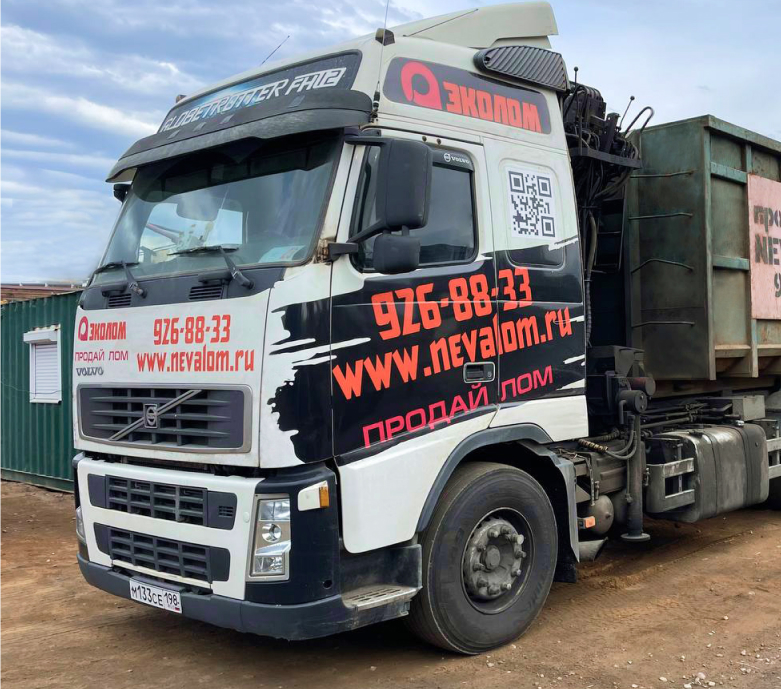
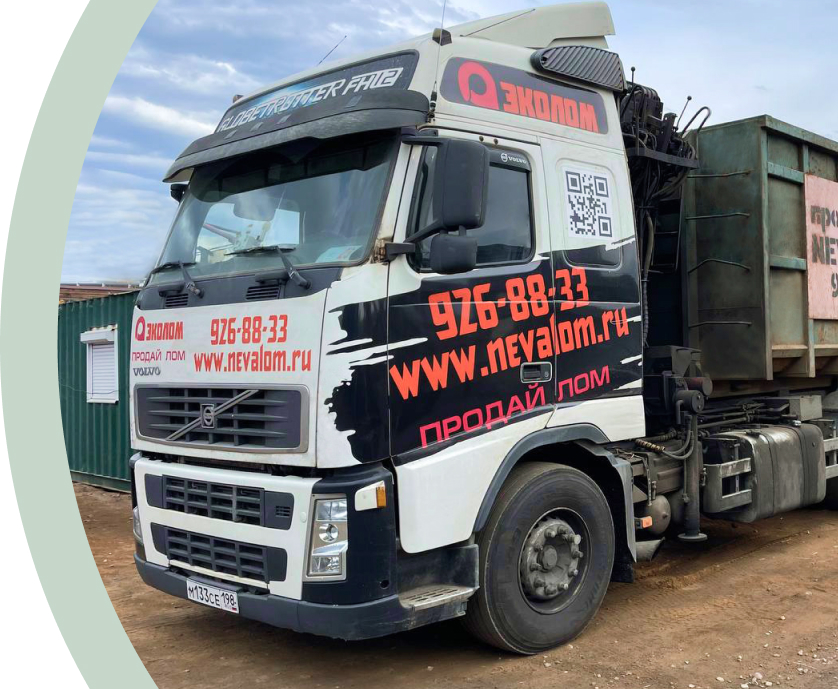
feat: add main__initial

diff --git a/index.html b/index.html
@@ -8,7 +8,7 @@
     <link rel="stylesheet" href="./styles/main.css">
 </head>
 <body>
-    <header class="header">
+    <header>
         <div class="container">
             <div class="header__top">
                 <div class="top__logo">
@@ -35,7 +35,7 @@
                     <a class="number__tel" href="tel:+78129268833">+7 (812) 926-88-33</a>
                     <a class="number__mail" href="mailto:info@eco-lom.ru">info@eco-lom.ru</a>
                 </div>
-                <button class="top__collme-btn">Перезвоните мне</button>
+                <button class="top__collme-btn btn">Перезвоните мне</button>
             </div>
         </div>
         <hr class="divider">
@@ -64,12 +64,71 @@
                 </li>
             </ul>
         </div>
+        <hr class="divider">
     </header>
-        <a>
-            Приём лома чёрных 
-и цветных металлов 
-в Санкт-Петербурге
-        </a>
+
+    <main>
+        <section class="main__initial">
+            <div class="container">
+                <div class="initial">
+                    <div class="initial__basic">
+                        <h1 class="title">Приём лома чёрных и цветных металлов <span class="title-span">в Санкт-Петербурге</span></h1>
+                        <ul class="basic__btns">
+                            <li class="btn">
+                                <a href="javascript:void(0);">Цены на сегодня</a></li>
+                            <li class="btn">
+                                <a href="javascript:void(0);">Как сдать металл</a></li>
+                            <li class="btn">
+                                <a href="javascript:void(0);">Отзывы</a></li>
+                            <li class="btn">
+                                <a href="javascript:void(0);">Акции</a></li>
+                        </ul>
+                        <div class="wrap__btn-filled">
+                            <button class="btn-filled btn">Оставить заявку</button>
+                        </div>
+                    </div>
+                    <button class="initial__video" aria-label="Открыть видео"></button>
+                    <div class="initial__picture">
+                        <div class="picture__wrapper">
+                            <img src="./assets/img/picture.png" alt="Truck" class="picture-ecolom">
+                        </div>
+                    </div>
+                </div>
+            </div>
+        </section>
+
+        <p>Lorem ipsum dolor sit amet, consectetur adipisicing elit. Nesciunt dolor, aspernatur unde autem error, quae eveniet nam velit ipsam magni aut nobis quis laborum corrupti nihil veritatis. Nisi, deleniti repellendus?
+        Optio, omnis incidunt suscipit voluptatem nostrum officiis quas? Autem, incidunt eum. Facilis temporibus iusto nobis id quod quas, modi saepe quisquam minus tempore dolore veritatis libero culpa esse? Autem, minus.
+        Maxime, amet deserunt. Tenetur odit quo ipsa molestias laboriosam minima, necessitatibus pariatur, dignissimos itaque rerum incidunt nobis totam dolor est amet aliquid vero eligendi inventore molestiae soluta officia. Consequatur, modi.
+        Expedita aspernatur dolorum commodi excepturi! Exercitationem beatae asperiores hic minus? Saepe quisquam vitae sequi inventore sunt aut quibusdam exercitationem consectetur reprehenderit. Eos alias voluptate dolore vero nemo esse cupiditate iste.
+        Voluptatibus cumque iusto dolore, hic sint nihil aut. Magni deserunt omnis aperiam dicta hic earum, tempore pariatur, illum aliquam sapiente officiis dolores quasi nihil ratione quae cumque. Inventore, suscipit. Necessitatibus?
+        Provident deleniti ut laudantium praesentium cupiditate quia tempora, nihil atque optio, repellendus labore a ea et, nisi placeat iste officiis? Porro aliquid illo exercitationem quasi culpa? Culpa reiciendis voluptates modi.
+        Quod quidem provident rerum error quaerat earum, in natus similique praesentium, vero expedita magnam minus possimus saepe alias doloremque ipsa consequatur sit non soluta aliquam delectus pariatur tempore beatae! Magnam.
+        Rerum quis, explicabo accusantium autem, incidunt, hic quaerat sapiente cumque sit iure dolorum fuga reprehenderit. Provident, molestias veniam! Ea laborum ad, quia natus quisquam architecto? Assumenda, mollitia. Quaerat, cupiditate excepturi.
+        Dolor corporis itaque, autem doloremque nihil voluptatibus numquam ut eum animi fugiat aspernatur nam fugit fuga voluptatum, id expedita quibusdam. Excepturi, sed voluptate. Cum, voluptas commodi ad aliquid dignissimos dolore.
+        Repudiandae voluptates architecto voluptas, rem blanditiis voluptatem itaque quae perspiciatis dolor sed quibusdam pariatur fuga nobis dicta eum vero, aliquam labore deleniti consequatur ducimus est minus debitis nihil necessitatibus. Quasi?
+        Tenetur quasi, veritatis amet necessitatibus excepturi illum quo! Minus tempora odio possimus consequuntur eligendi repudiandae ratione numquam, voluptatem nihil corrupti doloremque aperiam! Aut aliquid inventore illo quia ex itaque impedit!
+        In ullam architecto velit quas quibusdam officiis, neque ex, odio, vitae accusantium rem! Quis quisquam ad minima sit aspernatur id alias modi, culpa quos illo eum mollitia, sed placeat. Porro!
+        Aliquam incidunt nostrum nam, fuga laborum architecto alias quia suscipit corrupti hic facilis a omnis molestias vero veritatis quasi minima fugiat, ex temporibus odio accusamus animi? Molestiae atque magnam sit!
+        Doloremque qui tempore recusandae reiciendis aliquam doloribus id soluta, impedit magni quaerat enim deserunt harum mollitia asperiores dolor nam laudantium sapiente. Deleniti, eveniet? Architecto iusto natus, atque optio totam maiores?
+        Est cum hic voluptatum. Eius nulla nisi alias fuga animi, et dicta suscipit molestias, accusantium nemo a? Odit eligendi nobis deleniti reprehenderit magni quibusdam dolores veniam iure quidem ullam? Provident?
+        Iste tenetur reprehenderit accusantium in numquam beatae facere voluptatem repellendus eligendi, dolor similique ut, at quas totam. Omnis assumenda illo magni eum dolor distinctio? Nisi perferendis dicta tempora quaerat error.
+        Assumenda ea adipisci voluptate consectetur odio doloremque quibusdam, non repudiandae perferendis sunt natus veniam, quo tenetur aliquam ipsa perspiciatis! Distinctio tenetur incidunt eligendi facere, totam at a placeat magni soluta.
+        Animi doloremque incidunt distinctio, magni velit a nisi corporis, explicabo provident ullam inventore corrupti natus veniam dignissimos quidem illum neque ad eos nam autem praesentium? Velit nam ut vero cum.
+        Mollitia asperiores veniam tempore id cum illo numquam reprehenderit aspernatur officiis rem quis molestias fugiat, voluptatum quas dolore sunt modi ex optio officia. Nostrum vitae iure adipisci. Cupiditate, similique magnam.
+        Voluptas iusto suscipit cum illum blanditiis nesciunt, ipsam quae delectus velit porro nostrum facilis ex fugiat sint veritatis. Ullam reprehenderit temporibus saepe natus iste. Voluptas eveniet nesciunt architecto aut debitis!
+        Odio voluptatum rem natus, sed explicabo consequuntur dolorem eveniet velit veniam, aut distinctio dignissimos! Nam ut, suscipit dolor in necessitatibus dolore eos enim mollitia commodi corrupti, doloremque quae provident ratione?
+        Exercitationem deleniti, fugit enim corrupti reprehenderit sunt! At aliquid nesciunt possimus temporibus laborum consequatur ea sunt. Distinctio, molestiae optio. Dolore quibusdam alias excepturi earum architecto saepe ea dolorem vitae explicabo!
+        Omnis animi sit vel ipsum odit rerum atque, obcaecati tempore quibusdam enim facere nostrum eveniet quae minima dolore consequuntur cum! Totam laboriosam mollitia delectus ullam? Placeat atque nulla ex consequatur.
+        Quasi qui reprehenderit temporibus a sint autem doloribus voluptatibus quod ipsam inventore consectetur consequuntur sapiente nostrum, eaque praesentium nobis architecto quo, esse deleniti. Consequatur minima fugiat exercitationem voluptatem, aperiam impedit.
+        Officia ex saepe iusto corporis nesciunt, temporibus, excepturi, quibusdam ad perspiciatis qui eveniet veritatis dolorum porro. Totam est nemo harum dolores ipsa tempore sapiente, doloribus vel, quas animi recusandae libero.
+        Hic accusamus cumque molestiae maiores dolores esse perspiciatis magnam aliquid officiis eius vitae quia odit repellat ea sequi quos veniam rem, soluta optio blanditiis temporibus. Neque a dolorem non possimus!
+        Vero accusamus autem voluptatem, incidunt inventore, quas omnis laudantium eaque beatae tempora obcaecati iusto dolore quia. Totam labore, molestiae nesciunt error beatae eaque mollitia! Autem at ipsum quas voluptas optio.
+        Temporibus, cumque perferendis error quos optio repellendus officiis aliquam expedita reiciendis accusamus ipsum numquam accusantium nulla possimus, quo neque id laboriosam quia odit nostrum, modi velit in ratione porro. Doloribus.
+        Unde quaerat maiores facilis praesentium illo accusantium consectetur minus deserunt mollitia asperiores itaque cum, omnis accusamus quis magnam dolore ipsam excepturi ipsa, iure animi nulla eligendi, porro explicabo! Quae, ea.
+        Ducimus corporis magni, dolorem libero minus, facere beatae quisquam itaque doloremque suscipit sed nulla, ratione fugit temporibus! Velit error suscipit modi vel quos ad exercitationem magnam accusantium ut praesentium. Aliquam?</p>
+    </main>
+        
     
     
 </body>

diff --git a/styles/main.css b/styles/main.css
@@ -9,6 +9,9 @@
     margin: 0;
     padding: 0;
 }
+h1 {
+    margin: 0;
+}
 
 a {
     text-decoration: none;
@@ -24,7 +27,7 @@ li {
 button {
     all: unset;
     display: inline-block; 
-    cursor: pointer;
+    /* cursor: pointer; */
 }
 
 
@@ -46,8 +49,10 @@ body {
 }
 
 a:hover, 
-button:hover {
-    cursor: url('../assets/icons/cursor.svg') 12 12, auto;
+button:hover,
+.btn:hover,
+.initial__video {
+    cursor: var(--custom-cursor);
 }
 
 .container {
@@ -82,13 +87,19 @@ button:hover {
     align-items: center;
     border-radius: 100px;
     padding: 12px 28px;
+    gap: 12px;
     background-color: #fff7f3;
     font-weight: var(--font-weight-semibold);
     color: var(--red-color);
     transition: opacity 0.3s ease;
 }
 
-.top__search-btn:hover {
+button:hover,
+.top__calc:hover,
+.socials__item:hover,
+.number__tel:hover,
+.number__mail:hover,
+.btn:hover {
     opacity: 0.5;
 }
 
@@ -107,10 +118,6 @@ button:hover {
     transition: opacity 0.3s ease;
 }
 
-.top__calc:hover {
-    opacity: 0.5;
-}
-
 .top__socials {
     display: flex;
     justify-content: space-between;
@@ -124,10 +131,6 @@ button:hover {
     background-position: center;
     background-repeat: no-repeat;
     transition: opacity 0.3s ease;
-}
-
-.socials__item:hover {
-    opacity: 0.5;
 }
 
 .socials__whatsApp {
@@ -159,20 +162,13 @@ button:hover {
     transition: opacity 0.3s ease;
 }
 
-.number__tel:hover {
-    opacity: 0.5;
-}
-
 .number__mail {
     color: var(--black-color);
     transition: opacity 0.3s ease;
 }
 
-.number__mail:hover {
-    opacity: 0.5;
-}
-
-.top__collme-btn {
+.btn {
+    display: inline-block;
     border: 1px solid var(--red-color);
     border-radius: 100px;
     padding: 12px 32px;
@@ -182,10 +178,6 @@ button:hover {
     transition: opacity 0.3s ease;
 }
 
-.top__collme-btn:hover {
-    opacity: 0.5;
-}
-
 .divider {
     width: 100wv;
     height: 1px;
@@ -193,31 +185,88 @@ button:hover {
 }
 
 .header__menu {
-    padding: 22px 0 23px;
+    padding-top: 22px;
 }
 
 .menu-item {
     position: relative;
     text-transform: uppercase;
     color: #4c4c4c;
-    transition: color 0.3s ease;
-}
-
-.menu-item::before {
-    content: '';
-    position: absolute;
-    width: 100%;
-    height: 2px;
-    background-color: var(--red-color);
-    transform: translateY(42px); 
-    opacity: 0;
-    transition: color 0.3s ease; 
+    padding-bottom: 23px;
+    border-bottom: 2px solid transparent; 
+    transition: color 0.3s ease, border-bottom 0.3s ease, cursor 0.3s ease;
 }
 
 .menu-item:hover {
     color: var(--red-color);
+    border-bottom: 2px solid var(--red-color);
+    cursor: var(--custom-cursor);
 }
 
-.menu-item:hover::before {
-    opacity: 1;
+.main__initial {
+    background-color: #f3f7f4;
+}
+
+.initial {
+    display: flex;
+    position: relative;
+    flex-direction: row;
+    width: 1666px;
+    /* max-width: calc(1336px + 300px); */
+}
+
+.initial__basic {
+    display: flex;
+    flex-direction: column;
+    justify-content: space-between;
+    width: 31%;
+    /* height: 689px; */
+    padding: 100px 0 120px;
+    margin-right: 62px;
+}
+
+.title {
+    font-weight: var(--font-weight-semibold);
+    font-size: 48px;
+    line-height: 1.3;
+    color: var(--black-color);
+}
+
+.title-span {
+    color: var(--green-color);
+}
+
+.basic__btns {
+    display: flex;
+    flex-direction: row;
+    flex-wrap: wrap;
+    gap: 12px;
+}
+
+.btn-filled {
+    display: inline-block;
+    background-color: var(--red-color);
+    color: var(--background-color)
+}
+
+.initial__video {
+    display: block;
+    width: 200px;
+    height: 200px;
+    background-image: url(../assets/icons/video.svg);
+    background-size: contain;
+    background-position: center;
+    background-repeat: no-repeat;
+    margin-top: 52px;
+}
+
+.picture__wrapper {
+    /* position: relative; */
+    /* width: fit-content; */
+}
+
+
+.picture-ecolom {
+   /* width: 698px; */
+    
 }

diff --git a/styles/vars.css b/styles/vars.css
@@ -6,4 +6,5 @@
     --green-color: #105720;
     --background-color: #fff;
     --main-background: #f3f7f4;
+    --custom-cursor: url('../assets/icons/cursor.svg') 12 12, auto;
 }
